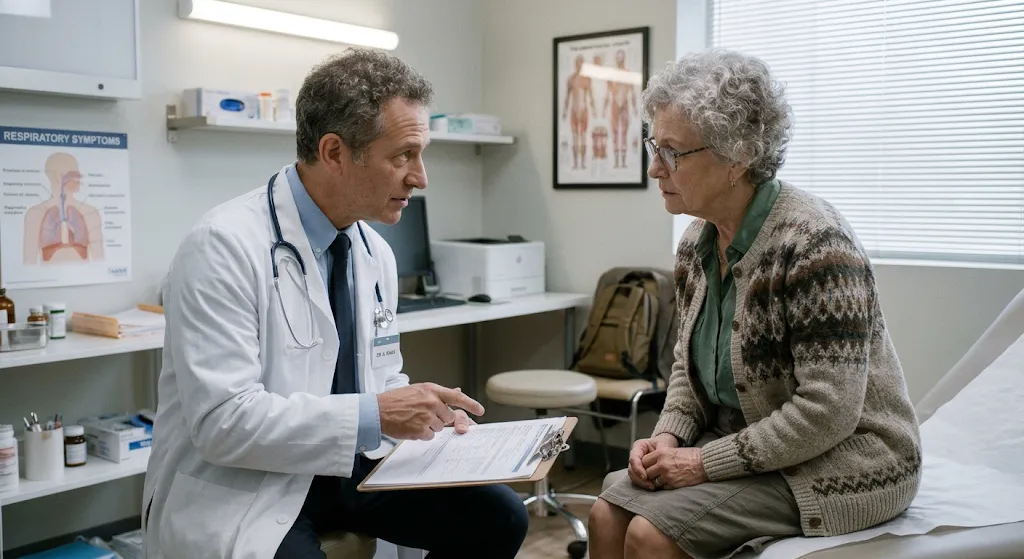
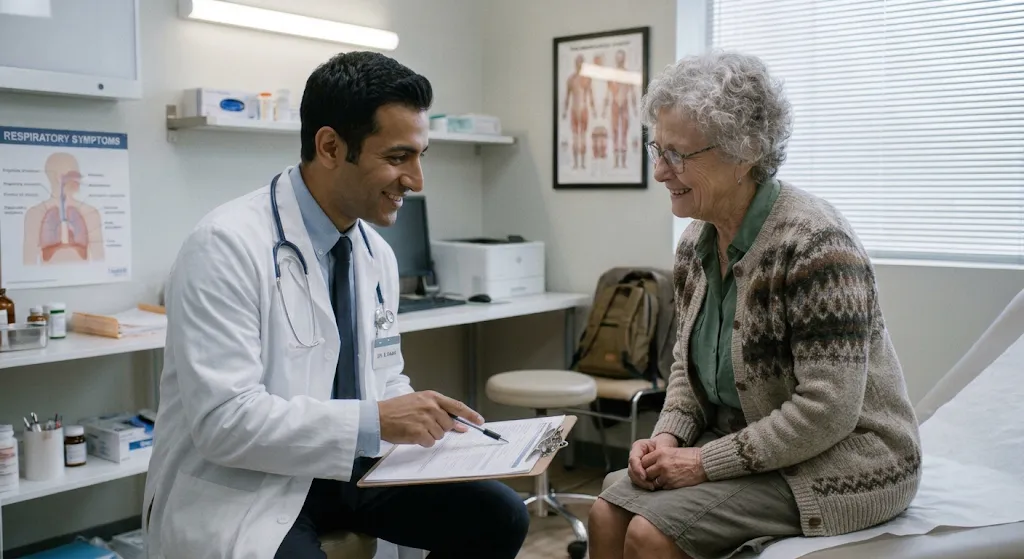
KAN-17: final login photo

diff --git a/changelog.md b/changelog.md
@@ -1,3 +1,8 @@
+## 2026-11-06 12:37 +0200 · Moaz Mohamed
+Prompt: 2026-11-06 12:37 · Moaz Mohamed
+What: Swapped the login photo for the user's final choice (the same exam-room scene, with the doctor and patient smiling). The blur, blue wash and crop are unchanged.
+Files: apps/hospital-dashboard/src/assets/login-doctor.webp
+
 ## 2026-11-06 12:35 +0200 · Moaz Mohamed
 Prompt: 2026-11-06 12:35 · Moaz Mohamed
 What: Replaced the login photo with the one the user chose instead (a doctor talking with a patient in an exam room), with the same blur and blue wash. It is re-encoded as WebP (63 kB), and the crop is centred on the doctor.

diff --git a/prompt_log.md b/prompt_log.md
@@ -1,3 +1,8 @@
+## 2026-11-06 12:37 +0200 · Moaz Mohamed
+Changes: 2026-11-06 12:37
+
+> ok final change. change the image to this one [image attached: the same exam-room scene, the doctor and patient smiling]
+
 ## 2026-11-06 12:35 +0200 · Moaz Mohamed
 Changes: 2026-11-06 12:35
 
